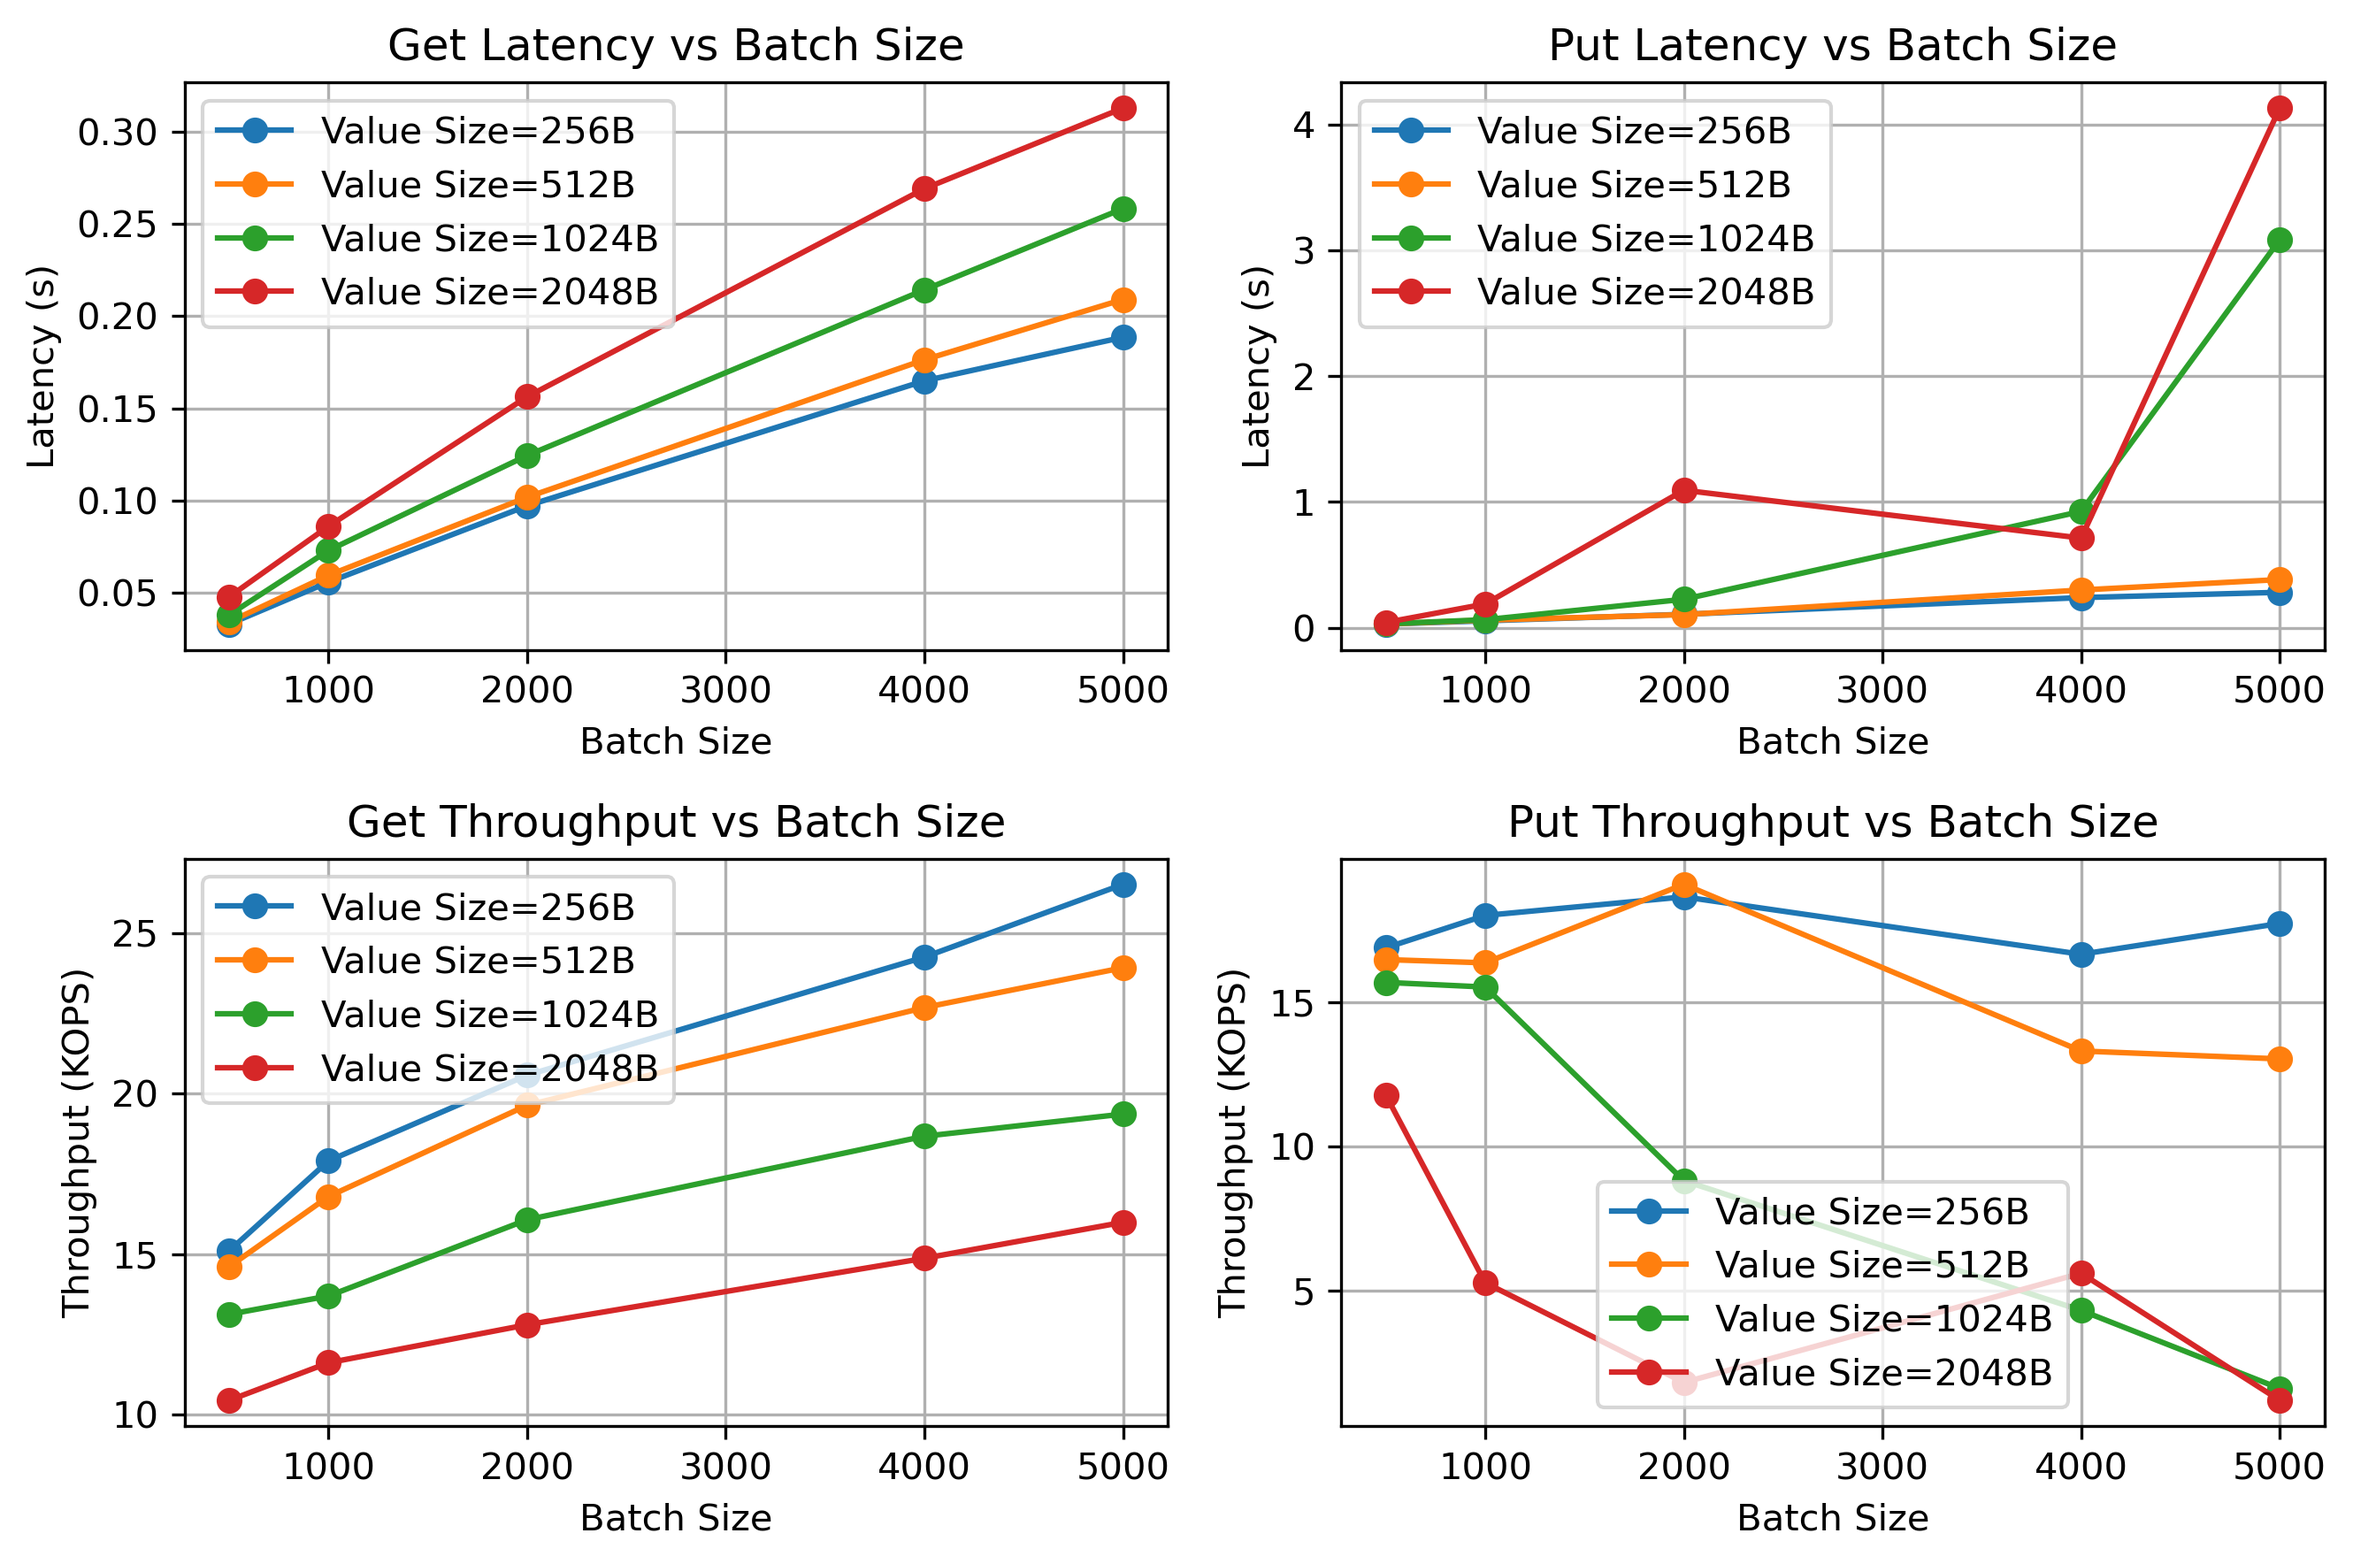
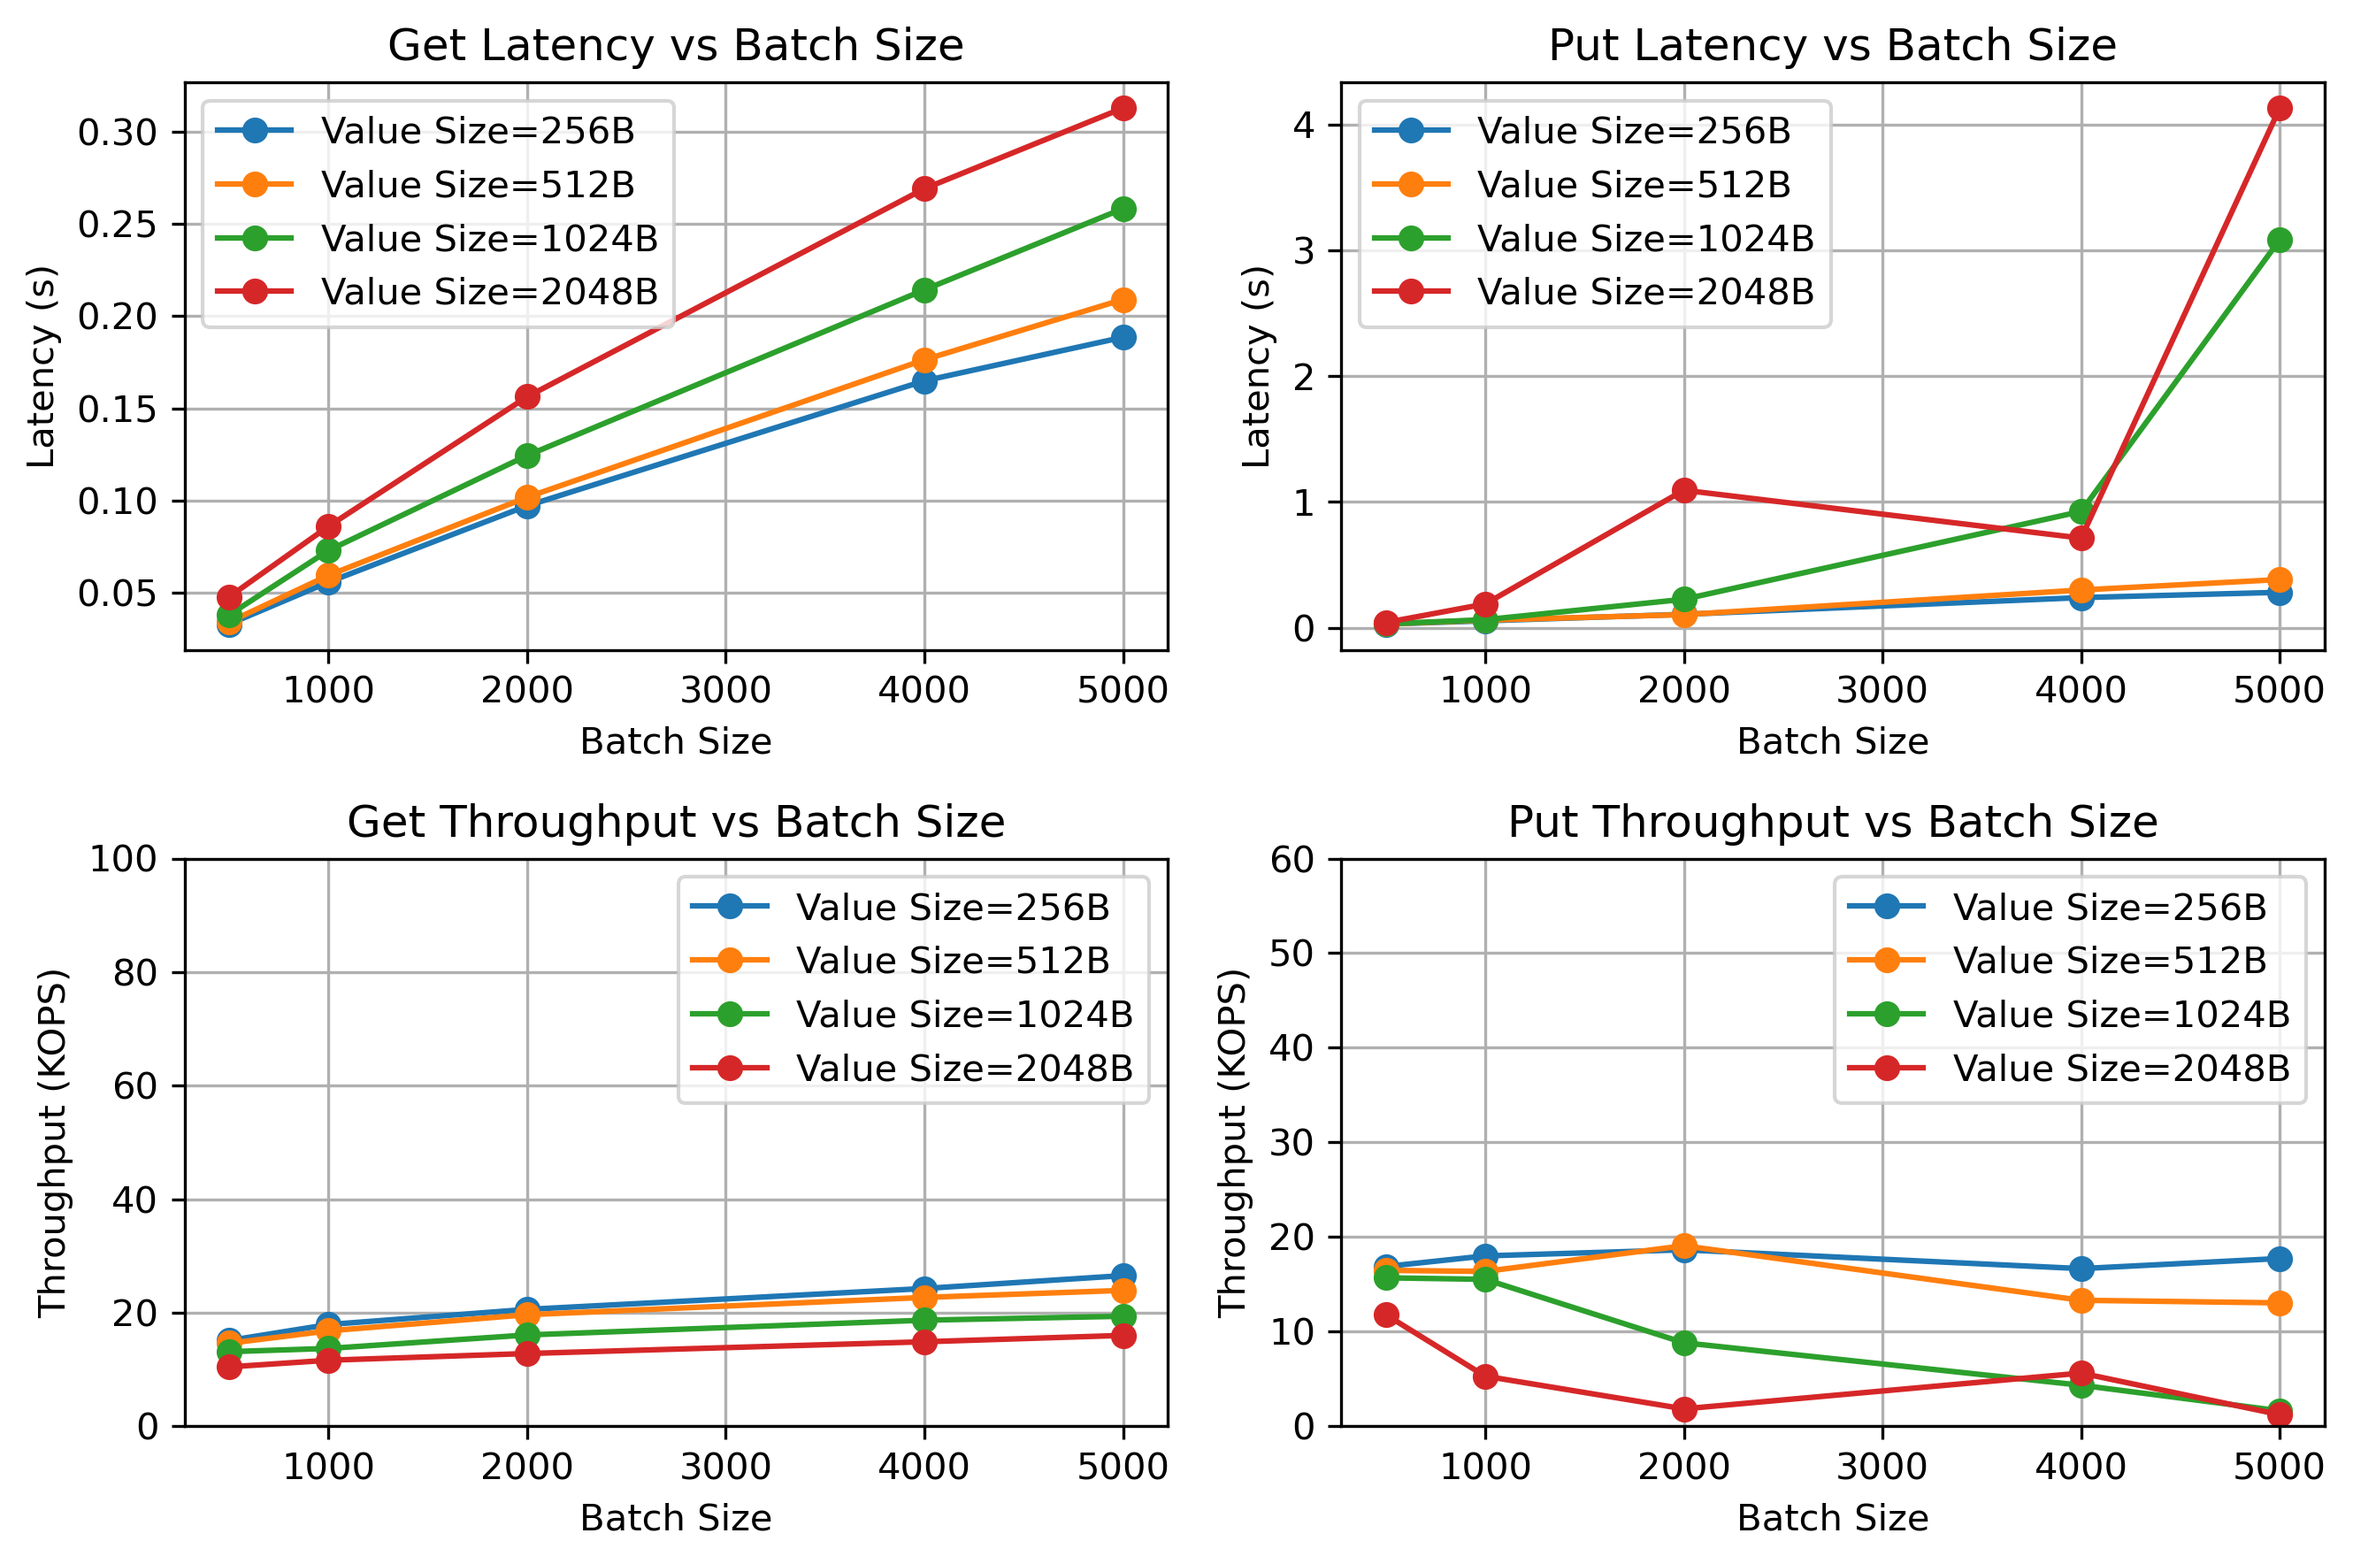
[test] regenerate test results

diff --git a/lib/LSVPS.hpp b/lib/LSVPS.hpp
@@ -41,8 +41,9 @@ struct IndexFile {
 // 查找块结构体
 struct LookupBlock {
   static const size_t BLOCK_SIZE = 12288;  // 12KB
-  
-  std::vector<std::pair<PageKey, size_t>> entries;//mapping indexblock to its location
+
+  std::vector<std::pair<PageKey, size_t>>
+      entries;  // mapping indexblock to its location
   bool SerializeTo(std::ostream &out) const;
   bool Deserialize(std::istream &in);
 };
@@ -50,7 +51,8 @@ struct LookupBlock {
 // LSVPS类定义
 class LSVPS {
  public:
-  LSVPS(std::string index_file_path = ".") : cache_(), table_(*this), index_file_path_(index_file_path){}
+  LSVPS(std::string index_file_path = ".")
+      : cache_(), table_(*this), index_file_path_(index_file_path) {}
   Page *PageQuery(uint64_t version);
   BasePage *LoadPage(const PageKey &pagekey);
   void StorePage(Page *page);
@@ -58,6 +60,7 @@ class LSVPS {
   int GetNumOfIndexFile();
   void RegisterTrie(DMMTrie *DMM_trie);
   const std::vector<Page *> &GetTable() const;
+
  private:
   // 块缓存类（占位）
   class blockCache {};
@@ -76,12 +79,14 @@ class LSVPS {
                         const LookupBlock &lookup_blocks,
                         const std::filesystem::path &filepath);
     std::vector<Page *> buffer_;
-    const size_t max_size_ = 200;//gurantee that max_size >= one version pages
+    // gurantee that max_size >= one version pages
+    const size_t max_size_ = 20000;
     LSVPS &parent_LSVPS_;
   };
 
   Page *pageLookup(const PageKey &pagekey);
-  Page *readPageFromIndexFile(std::vector<IndexFile>::const_iterator file_it, const PageKey &pagekey);
+  Page *readPageFromIndexFile(std::vector<IndexFile>::const_iterator file_it,
+                              const PageKey &pagekey);
   void applyDelta(BasePage *basepage, const DeltaPage *deltapage,
                   PageKey pagekey);
 

diff --git a/exps/plot.py b/exps/plot.py
@@ -68,6 +68,7 @@ for value_size in sorted(df['value_size'].unique()):
     plt.plot(data['batch_size'].to_numpy(), data['get_throughput'].to_numpy()/1000, 
              marker='o', label=f'Value Size={value_size}B')
 
+plt.ylim(0,100)
 plt.title('Get Throughput vs Batch Size')
 plt.xlabel('Batch Size')
 plt.ylabel('Throughput (KOPS)')
@@ -80,6 +81,7 @@ for value_size in sorted(df['value_size'].unique()):
     plt.plot(data['batch_size'].to_numpy(), data['put_throughput'].to_numpy()/1000, 
              marker='o', label=f'Value Size={value_size}B')
 
+plt.ylim(0,60)
 plt.title('Put Throughput vs Batch Size')
 plt.xlabel('Batch Size')
 plt.ylabel('Throughput (KOPS)')

diff --git a/lib/DMMTrie.hpp b/lib/DMMTrie.hpp
@@ -236,7 +236,7 @@ class DMMTrie {
                 PageKey::Hash>
       lru_cache_;                             //  use a hash map as lru cache
   list<pair<PageKey, BasePage *>> pagekeys_;  // list to maintain cache order
-  const size_t max_cache_size_ = 12000;       // maximum pages in cache
+  const size_t max_cache_size_ = 15000;       // maximum pages in cache
   unordered_map<string, DeltaPage>
       active_deltapages_;  // deltapage of all pages, delta pages are indexed by
                            // pid

diff --git a/README.md b/README.md
@@ -43,8 +43,9 @@ The project directory should look like this:
 |   ├── LSVPS.cpp           // LSVPS implementation
 │   └── DMMTrie.cpp         // DMMTrie implementation
 ├── workload
-|   ├── get_put.cc          // test LETUS with 
-│   ├── get_put_2.cc        // test LETUS with
+|   ├── exes
+|   |   ├── get_put.cc      // test LETUS with 
+│   |   └── get_put_2.cc    // test LETUS with
 │   └── lib/                // utility functions for workload generator
 ├── gowrapper               // go wrapper for LETUS
 │   ├── go-build.sh         // bash script to build the go-wrapper
